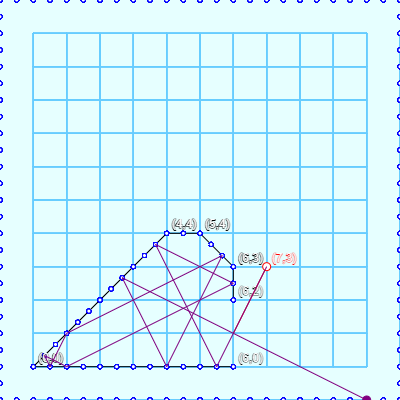
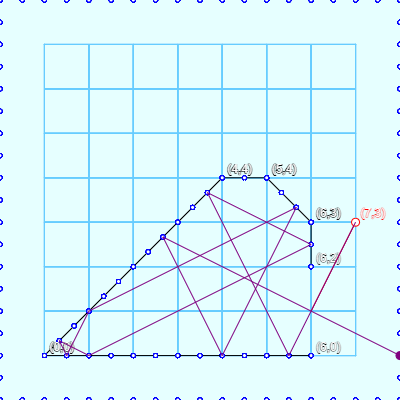
[upd] continuation of concepts parts

diff --git a/html/concepts.html b/html/concepts.html
@@ -13,7 +13,8 @@
   <div class="sidebar">
     <a class="" href="../index.html">Home</a>
     <a class="active" href="concepts.html">Concepts</a>
-    <a class="" href="tool.html">Tool (WIP)</a>
+    <a class="" href="code.html">Code</a>
+    <a class="" href="tool.html">Tool</a>
     <a class="" href="references.html">References</a>
   </div>
 
@@ -90,7 +91,7 @@
           </li>
           <li>Given a ray going in a specified direction,
             it can hit any mirror in only a finite number of positions.</li>
-          <li>(fixme: cite infinitely many in/out grid points?) </li>
+          <!-- <li>(fixme: cite infinitely many in/out grid points?) </li> -->
         </ol>
 
         Which in summary will give us a system like represented by the image below,
@@ -103,20 +104,27 @@
           <img style="width: 350px; height: auto;" src='../images/figures/article-figure-in-tool.png' alt='missing' />
           <figcaption></figcaption>
         </figure>
+        <div class='todo'><strong>TODO:</strong> Explain all observations and lemmas (following the numbers in article)</div>
       </p>
 
     <h1>Bijection, interval exchange, iterated interval exchange</h1>
-      As the overall context is now established, we are ready to explore some more interesting concepts.
+      With the general context now established, the observations and lemmas arising from the initial hypotheses,
+      we are ready to explore the core concepts.
 
       <p>
         As a reminder, the idea of a <strong>bijection</strong> is, given input and output sets,
-        to join each input elements to an output element and vice versa for instance using a line,
-        making sure each input and each output element has one and only one incoming or outcoming line.
+        to join each input elements to one and only one output element and vice versa.
+        For instance using a line, making sure each input and each output element has one and only one incoming/outcoming line.
       </p>
 
       <p>
-        The idea behind an <strong>integer interval exchange transformation</strong> is to divide an interval of integers into subintervals.
-        Those subintervals and then permuted (rearranged).
+        The main idea behind the algorithm is to compute for every ray's directions, every possible bounces with every mirrors and the next collision.
+        In other words, it creates a mapping predicting every possible bounces in the environnement.
+        Then we apply this mapping for a given ray direction bouncing on a mirror to get the next collision with a reflective or non-reflective surfaces.
+        We called this mapping an <strong>integer interval exchange transformation</strong>.
+
+        use an <strong>integer interval exchange transformation</strong>. It consists in dividing an interval
+        of integers into subintervals, then those subintervals are permuted (exchange).
         ...
       </p>
 
@@ -155,15 +163,6 @@
         actually form a single blue line called the <strong>normal curve</strong>.
       </p>
 
-      <!--
-        is the triangulation actually necessary ?
-        especially since the number of edges from top to bottom
-        seems to be always the same no matter the integer position
-
-        maybe it is just to prove the reduction can be correctly applied
-        in order to later used the proposed algos..
-      -->
-
       <p>
         Next, the surface is divided into a certain number of horizontal lines,
         and triangulated such that each blue line crosses only 1 triangle edge
@@ -183,8 +182,40 @@
       </figure>
 
 
-      <h2>Normal curve, normal coordinates, arc coordinates, edge coordinates</h2>
+      <h2>Traversing the normal curve</h2>
         <!-- Insert algos from yet another paper ^^ -->
+
+        <!-- (s = ceil(log_2(k))) → 1/2 height of the surface)<br> -->
+
+        <!-- With the surface constructed, the idea is as follows:
+        we start with the number we want to iterate, let's say
+        4, belonging to the <b>a</b> subinterval.
+        From there we will descend vertically onto the middle horizontal edge.
+        If we want to iterate it 4 times -->
+
+        Consider mainly the middle horizontal edge of the surface and also the normal curve.
+        We start at a certain position of the horizontal line,
+        that we will call the edge coordinates, that correspond to the initial number we want to iterate.
+        From there, basically, the idea is to convert those edge coordinates into arc coordinates.
+        Arc coordinates represent the i_th edge that the normal curve has crossed/hit since an arbitrary initial starting position.
+        Once those are obtained, we add '<b>2ns</b>' to those coordinates.
+        '<b>n</b>' is the number of iterations we want to execute.
+        '<b>s</b>' is the number of edges crossed from the horizontal central edge to the horizontal top edge (4 in our example),
+        which we multiply by 2 in order to obtain the number of edges crossed from top to bottom.
+        We modulo the whole operation as the arc coordinates are cyclic by normal curve definition.
+        Then, we simply convert back to the edge coordinates in order to obtain the final result of the iteration.
+
+        This could actually be done by simple my simple additional with modulo in the case of a single cycle.
+        Actually we could even skip the whole triangulation part.
+
+        However, this only works when the interval exchange only includes a single normal arc.
+        In practice, there are several normals arc and thus multiple cycles.
+
+        In order to take those in count, we have to apply additional topological subroutines.
+        ...
+
+        [+ illustrate with partial interval and infinite trap]
+
 
     <h1>Conclusion</h1>
       ...

diff --git a/html/references.html b/html/references.html
@@ -13,7 +13,8 @@
   <div class="sidebar">
     <a class="" href="../index.html">Home</a>
     <a class="" href="concepts.html">Concepts</a>
-    <a class="" href="tool.html">Tool (WIP)</a>
+    <a class="" href="code.html">Code</a>
+    <a class="" href="tool.html">Tool</a>
     <a class="active" href="references.html">References</a>
   </div>
 
@@ -22,22 +23,24 @@
     <ul>
       <li>David Eppstein. “Reflections in an octagonal mirror maze”. In: ArXiv abs/2206.11413
         (2022). &ensp;
-        <a href="https://arxiv.org/pdf/2206.11413.pdf">(PDF)</a>
-        <a href="https://www.ics.uci.edu/~eppstein/pubs/Epp-CCCG-22c.pdf">(Slides)</a>
-        <a href="https://11011110.github.io/blog/2022/06/24/reflections-octagonal-mirror.html">(Blog)</a>
+        [<a href="https://arxiv.org/pdf/2206.11413.pdf">PDF</a>]
+        [<a href="https://www.ics.uci.edu/~eppstein/pubs/Epp-CCCG-22c.pdf">Slides</a>]
+        [<a href="https://11011110.github.io/blog/2022/06/24/reflections-octagonal-mirror.html">Blog</a>]
       </li>
       <li>David Eppstein. “The Complexity of Iterated Reversible Computation”. In: ArXiv
         abs/2112.11607 (2021). &ensp;
-        <a href="https://arxiv.org/pdf/2112.11607.pdf">(PDF)</a>
-        <a href="https://11011110.github.io/blog/2022/01/30/fast-iterated-exchange.html">(Blog)</a>
+        [<a href="https://arxiv.org/pdf/2112.11607.pdf">PDF</a>]
+        [<a href="https://11011110.github.io/blog/2022/01/30/fast-iterated-exchange.html">Blog</a>]
       </li>
-      <li>Erickson, Jeff and Amir Nayyeri. “Tracing Compressed Curves in Triangulated Surfaces.” Discrete & Computational Geometry 49 (2012): 823-863. &ensp;<a href="https://jeffe.cs.illinois.edu/pubs/pdf/tracing.pdf">(PDF)</a></li>
+      <li>Erickson, Jeff and Amir Nayyeri. “Tracing Compressed Curves in Triangulated Surfaces.” Discrete & Computational Geometry 49 (2012): 823-863. &ensp;
+        [<a href="https://jeffe.cs.illinois.edu/pubs/pdf/tracing.pdf">PDF</a>]
+      </li>
     </ul>
     <h1> Additional resources </h1>
     <ul>
-      <li>Reif, John H. et al. “Computability and complexity of ray tracing.” Discrete & Computational Geometry 11 (1994): 265-288. &ensp;<a href="https://link.springer.com/content/pdf/10.1007/BF02574009.pdf">(PDF)</a></li>
-      <li>Ghosh, Subir Kumar et al. “Algorithms for computing diffuse reflection paths in polygons.” The Visual Computer 28 (2011): 1229-1237. &ensp;<a href="https://people.scs.carleton.ca/~maheshwa/papers/reflection.pdf">(PDF)</a></li>
-      <li>Bennett, Charles H.. “Logical reversibility of computation.” Ibm Journal of Research and Development 17 (1973): 525-532. &ensp;<a href="https://www.dna.caltech.edu/courses/cs191/paperscs191/bennett1973.pdf">(PDF)</a></li>
+      <li>Reif, John H. et al. “Computability and complexity of ray tracing.” Discrete & Computational Geometry 11 (1994): 265-288. &ensp;[<a href="https://link.springer.com/content/pdf/10.1007/BF02574009.pdf">PDF</a>]</li>
+      <li>Ghosh, Subir Kumar et al. “Algorithms for computing diffuse reflection paths in polygons.” The Visual Computer 28 (2011): 1229-1237. &ensp;[<a href="https://people.scs.carleton.ca/~maheshwa/papers/reflection.pdf">PDF</a>]</li>
+      <li>Bennett, Charles H.. “Logical reversibility of computation.” Ibm Journal of Research and Development 17 (1973): 525-532. &ensp;[<a href="https://www.dna.caltech.edu/courses/cs191/paperscs191/bennett1973.pdf">PDF</a>]</li>
     </ul>
     <h1> Wikipedia </h1>
     <ul>

diff --git a/index.html b/index.html
@@ -13,7 +13,8 @@
   <div class="sidebar">
     <a class="active" href="index.html">Home</a>
     <a class="" href="html/concepts.html">Concepts</a>
-    <a class="" href="html/tool.html">Tool (WIP)</a>
+    <a class="" href="html/code.html">Code</a>
+    <a class="" href="html/tool.html">Tool</a>
     <a class="" href="html/references.html">References</a>
   </div>
 
@@ -32,18 +33,34 @@
     SWIRYDOWICZ Szymon
 
     <h2>Progress</h2>
-    <h3>Done</h3>
-    <ul>
-      <li>Implementation of base tool structure</li>
-      <li>Iterated Integer Exchange</li>
-    </ul>
-    <h3>Todo</h3>
-    <ul>
-      <li>Explanation of concepts</li>
-      <li>Partial Integer Interval Exchange</li>
-      <li>Fast Iterated Interval Exchange - Implement topology concepts to (maybe) speed up the computations (cf. Section 6.4 and Theorem 8 of "<i>The Complexity of Iterated Reversible Computation</i>" paper</li>
-    </ul>
-  </div>
+
+      Currently, we have implemented a basic tool
+      that allows to compute the reflections of a light ray
+      in an octagonal mirror integer-environnement.
+
+      We have started the explanations of the concepts of the article,
+      and we essentially still need to add some important points,
+      illustrate different parts, and mostly add some pertinent
+      images and figures to better illustrate the ideas.
+
+      However note that our tool does not completely implement
+      the whole scope of the article, but rather allows
+      to illustrate some important parts, such as the finite
+      number of reflections, directions and its general idea.
+
+      In order to obtain a complete implementation we would have
+      to complement it with a reduction into a
+      triangulated manifold and apply a series of subroutines
+      from computational topology, that would potentially
+      make the whole algorithm faster (actually we
+      are not certain of that point), but the overall
+      outcome of ray-shooting would not change.
+
+      As this topological implementation is quite time consuming
+      (and we are not even sure we would be able to
+      code it in such short time), and does not bring
+      much, at least visually, to the whole process,
+      we will just focus on explaining its concepts.
 
 </body>
 </html>

diff --git a/html/code.html b/html/code.html
@@ -10,9 +10,38 @@
 </head>
 <body>
 
-<div>
-  Maybe add code snippets in here for illustration for curious people?
-  Or maybe, simply, add a link to repo/code/js somewhere on the webpage.
-</div>
+  <div class="sidebar">
+    <a class="" href="../index.html">Home</a>
+    <a class="" href="concepts.html">Concepts</a>
+    <a class="active" href="code.html">Code</a>
+    <a class="" href="tool.html">Tool</a>
+    <a class="" href="references.html">References</a>
+  </div>
+
+
+  <div class='content'>
+
+    <!-- Maybe add some code snippets in here for illustration for curious people?
+  Or maybe, simply, add a link to repo/code/js somewhere on the webpage. -->
+
+    <h1>Implementation</h1>
+      <p>
+        ...
+      </p>
+
+    <h1>Remarks and difficulties</h1>
+      <p>
+        <!-- i.e. we have quite understood how it works,
+        BUT,
+        we don't find it pertinent,
+        at least not in practice,
+        at least in our implementation. -->
+      </p>
+
+  </div>
+
+
+
+
 
 </body>

diff --git a/html/tool.html b/html/tool.html
@@ -14,7 +14,8 @@
   <div class="sidebar">
     <a class="" href="../index.html">Home</a>
     <a class="" href="concepts.html">Concepts</a>
-    <a class="active" href="tool.html">Tool (WIP)</a>
+    <a class="" href="code.html">Code</a>
+    <a class="active" href="tool.html">Tool</a>
     <a class="" href="references.html">References</a>
   </div>
 

diff --git a/code/sketch.js b/code/sketch.js
@@ -451,6 +451,7 @@ function createTestEnv1() {
     RAY
       (?) I suppose it is (7, 3) going to (6, 1)
   */
+  GRIDS = 7+2;
   mirrors.push(new Mirror(0, 0, 4, 4)); // AB
   mirrors.push(new Mirror(4, 4, 5, 4)); // BC
   mirrors.push(new Mirror(5, 4, 6, 3)); // CD
